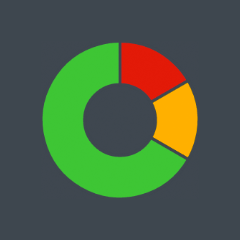
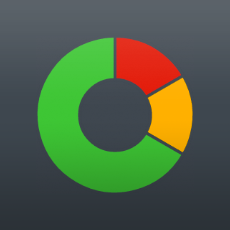
Display incident warnings

diff --git a/src/scripts/models/traffic-model.js b/src/scripts/models/traffic-model.js
@@ -23,61 +23,87 @@ define(function(require) {
       return string;
     },
 
-    travelDurationByCongestion: function() {
+    _parseLegDetails: function() {
+      var warningWhitelist = [
+        'Accident',
+        'BlockedRoad',
+        'Congestion',
+        'DisabledVehicle',
+        'Miscellaneous',
+        'Other',
+        'OtherTrafficIncidents',
+        'PlannedEvents',
+        'RoadClosures',
+        'RoadHazard',
+        'ScheduledConstruction',
+        'SeasonalClosures',
+        'Weather',
+      ];
+
       var resource = this.get('resourceSets')[0].resources[0];
       var itineraryLegs = resource.routeLegs;
-      var total;
-      var none = 0;
-      var low = 0;
-      var medium = 0;
-      var high = 0;
 
-      // each destination is a "leg"
+      var totalWarnings = [];
+      var noCongestion = 0;
+      var lowCongestion = 0;
+      var moderateCongestion = 0;
+      var seriousCongestion = 0;
+
+      // each hard destination is a "leg"
       _.each(itineraryLegs, function(leg) {
         var itineraryItems = leg.itineraryItems;
 
         // each leg broken into segments
         _.each(itineraryItems, function(item) {
-          if (item.warnings) {
 
-            // examine warnings
+          if (item.warnings) {
             _.each(item.warnings, function(warning) {
               if (warning.warningType === 'TrafficFlow') {
+
+                // add up distance by congestion
                 switch(warning.severity) {
-                case 'Low Impact':
-                  none += item.travelDuration;
-                  break;
                 case 'Minor':
-                  low += item.travelDuration;
+                  lowCongestion += item.travelDistance;
+                  break;
+                case 'Low Impact':
+                  lowCongestion += item.travelDistance;
                   break;
                 case 'Moderate':
-                  medium += item.travelDuration;
+                  moderateCongestion += item.travelDistance;
                   break;
                 case 'Serious':
-                  high += item.travelDuration;
+                  seriousCongestion += item.travelDistance;
                   break;
                 default:
-                  none += item.travelDuration;
+                  noCongestion += item.travelDistance;
                 }
+              } else if(_.contains(warningWhitelist, warning.warningType)){
+
+                // capture non-congestion warnings
+                totalWarnings.push(warning.text);
               }
             });
           } else {
-            none += item.travelDuration;
+            // default to green
+            noCongestion += item.travelDistance;
           }
         });
-
-        total = {
-          high: high,
-          medium: medium,
-          low: low,
-          none: none
-        };
       });
 
-      return total;
+      var results =  {
+        totalCongestion: {
+          noCongestion: noCongestion,
+          lowCongestion: lowCongestion,
+          moderateCongestion: moderateCongestion,
+          seriousCongestion: seriousCongestion
+        },
+        totalWarnings: totalWarnings
+      };
+
+      return results;
     },
 
-    travelDurationStats: function() {
+    _parseDurationStats: function() {
       var travelDurationStats = {};
       var totalSeconds = this.get('resourceSets')[0].resources[0].travelDurationTraffic;
       var seconds = totalSeconds;
@@ -96,6 +122,15 @@ define(function(require) {
       if(distance) travelDurationStats.distance = distance;
 
       return travelDurationStats;
+    },
+
+    formatResults: function() {
+      var legDetails = this._parseLegDetails();
+      return {
+        travelDurationStats: this._parseDurationStats(),
+        travelDurationByCongestion: legDetails.totalCongestion,
+        travelWarnings: legDetails.totalWarnings
+      };
     }
 
   });

diff --git a/src/scripts/views/chart-view.js b/src/scripts/views/chart-view.js
@@ -8,9 +8,9 @@ define(function(require) {
   var ChartView = Backbone.View.extend({
 
     RED_CLR: '#e01e1b',
-    ORANGE_CLR: '#feaf01',
+    ORANGE_CLR: '#fc8d0d',
+    YELLOW_COLOR: '#ede725',
     GREEN_CLR: '#45c43f',
-    LIGHTGREEN_CLR: '#aac42f',
 
     // Rendering
 
@@ -25,19 +25,19 @@ define(function(require) {
 
       var colorizedData = [
         {
-          value: data.high,
+          value: data.seriousCongestion,
           color: this.RED_CLR
         },
         {
-          value : data.medium,
+          value : data.moderateCongestion,
           color : this.ORANGE_CLR
         },
         {
-          value : data.low,
-          color : this.LIGHTGREEN_CLR
+          value : data.lowCongestion,
+          color : this.YELLOW_COLOR
         },
         {
-          value : data.none,
+          value : data.noCongestion,
           color : this.GREEN_CLR
         }
       ];

diff --git a/src/scripts/views/route-view.js b/src/scripts/views/route-view.js
@@ -43,9 +43,12 @@ define(function(require) {
     // Events
 
     onFetchSuccess: function(trafficModel) {
+      var results = trafficModel.formatResults();
+
       this.model.set({
-        travelDurationStats: trafficModel.travelDurationStats(),
-        travelDurationByCongestion: trafficModel.travelDurationByCongestion(),
+        travelDurationStats: results.travelDurationStats,
+        travelDurationByCongestion: results.travelDurationByCongestion,
+        travelWarnings: results.travelWarnings,
         fetchingTraffic: false
       });
     },
@@ -69,6 +72,7 @@ define(function(require) {
         this.model.set({
           travelDurationStats: false,
           travelDurationByCongestion: false,
+          travelWarnings: [],
           fetchingTraffic: true
         });
 

diff --git a/src/styles/app.css.less b/src/styles/app.css.less
@@ -13,8 +13,8 @@ body {
   background: @medium-gray;
   color: #fff;
   font-family: @thin-text;
-  font-size: 16px;
-  line-height: 1.5;
+  font-size: 14px;
+  line-height: 1.2;
 }
 
 .container {
@@ -94,13 +94,11 @@ body {
 
   .duration {
     font-size: 45px;
-    line-height: 1.1;
     font-family: @thinnest-text;
   }
 
   .distance, .unit {
     font-size: 18px;
-    line-height: 1.1;
     font-family: @thin-text;
     color: @light-gray;
     text-transform: uppercase;
@@ -108,6 +106,20 @@ body {
 
   .nobreak {
     white-space: nowrap;
+  }
+
+  // warnings
+
+  ul.warnings {
+    list-style: none;
+    margin: 0;
+    padding: 20px 0 0 0;
+    color: #fc8d0d;
+
+    li {
+      margin: 0;
+      padding: 0 0 10px 0
+    }
   }
 
   // chart
